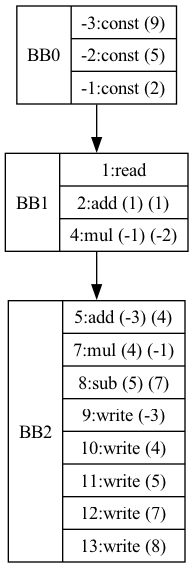
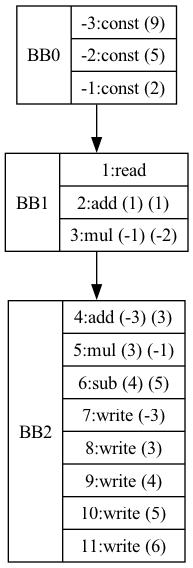
added [this->addSSA1()] in [p_term()] to add mul/div instrs

diff --git a/main.cpp b/main.cpp
@@ -18,11 +18,13 @@
 
 // class SymbolTable; // forward declaration (?)
 
-std::string f_ext = ".ty";
-std::string f_name = "nested_if_while";
+// #define file_name "simple_instrs"
+
+// std::string f_ext = ".ty";
+// std::string f_name = file_name;
 // std::string f_full = f_name + f_ext;
-std::string in_f = "tst/" + f_name + f_ext;
-#define in_f "tst/simple_instrs.ty"
+// std::string in_f = "tst/" + f_name + f_ext;
+#define in_f "tst/simple_nested_if_while.ty"
 
 // [10.23.2024]: Silly rabbit
 

diff --git a/src/Parser.hpp b/src/Parser.hpp
@@ -474,7 +474,7 @@ public:
         lst += "[const]: \n\t" + this->BB0->constList->listToString();
         
         for (unsigned int i = 1; i < SymbolTable::operator_table.size() - 1; i++) {
-            lst += "[" + SymbolTable::operator_table_reversed.at(i) + "]: \n\t" + this->instrList.at(i)->listToString();
+            lst += "[" + SymbolTable::operator_table_reversed.at(i) + "]: \n" + this->instrList.at(i)->listToString();
         }
         return lst;
     }

diff --git a/src/Parser.cpp b/src/Parser.cpp
@@ -1253,6 +1253,7 @@ SSA* Parser::p_term() { // Check For `*` && `/`
         next();
         SSA *y = p_factor();
         x = BuildIR(op, x, y); // ToDo: Create IR Block
+        x = this->addSSA1(x, true);
         std::cout << "in while loop" << std::endl;
     }
     // [08/02/2024]: Segmentation Fault here (both CheckFor()'s should return false, DEBUG stmt should print (currently doesn't!))
